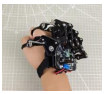
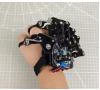
miniAuto 2

diff --git a/source/docs/2.Set_Arduino_Environment.md b/source/docs/2.Set_Arduino_Environment.md
@@ -38,11 +38,11 @@ If you're prompted for the installation of the chip driver during the installati
 
 ### 2.1.2 Software Instruction
 
-(1) The main interface of Arduino IDE consists of 5 workplaces：
+The main interface of Arduino IDE consists of 5 workplaces：
 
 <img class="common_img" src="../_static/media/chapter_2/section_1/media/image8.png"  />
 
-(2) **Menu bar**: it is responsible for Arduino IDE-related settings.
+(1) **Menu bar**: it is responsible for Arduino IDE-related settings.
 
 <table  class="docutils-nobg" style="text-align:center;" border="1">
 <colgroup>
@@ -78,7 +78,7 @@ If you're prompted for the installation of the chip driver during the installati
 </tbody>
 </table>
 
-(1) **Tool bar**: some tools related to the project, including program compilation, programs download, serial monitor, etc.
+(2) **Tool bar**: some tools related to the project, including program compilation, programs download, serial monitor, etc.
 
 | **Icon**                                                     | **Function**                                                 |
 | ------------------------------------------------------------ | ------------------------------------------------------------ |
@@ -117,7 +117,7 @@ If you're prompted for the installation of the chip driver during the installati
 
 ### 2.2.2 Arduino Download Program
 
-[_Demo](../_static/source_code/Demo.zip)
+[Demo](../_static/source_code/Demo.zip)
 
 (1) In this case, we will use an example that prints **"Hiwonder"** to illustrate. Open the example program Demo.ino .
 
@@ -127,7 +127,7 @@ If you're prompted for the installation of the chip driver during the installati
 
 <img class="common_img" src="../_static/media/chapter_2/section_2/media/image5.png"  />
 
-(3) In the **"Select board"** option, find the corresponding Arduino development board. (Take **"Arduino Uno"** and **"COM6"** as en example to demonstrate. The COM port is not unique. You can can check the COM port number in the computer's device manager. )
+(3) In the **"Select board"** option, find the corresponding Arduino development board. (Take **"Arduino Uno"** and **"COM5"** as en example to demonstrate. The COM port is not unique. You can can check the COM port number in the computer's device manager. )
 
 <img class="common_img" src="../_static/media/chapter_2/section_2/media/image6.png"  />
 
@@ -167,7 +167,7 @@ Take the library file for driving the RGB light (FastLED) as an example to illus
 
 This method is usually used for downloading library file or customizing the library file importing. Here will take the **"FastLED"** library file as an example to illustrate.
 
-(1) Select **"Sketch -\> Import library-\> Add .ZIP library"**.
+(1) Select **"Sketch -\> Include library -\> Add .ZIP library"**.
 
 <img class="common_img" src="../_static/media/chapter_2/section_2/media/image16.png"  />
 

diff --git a/source/docs/9.wireless_glove_control_lesson.md b/source/docs/9.wireless_glove_control_lesson.md
@@ -36,7 +36,7 @@ First, secure the finger straps around the last knuckles of each finger. Then, f
 
 For a visual reference, please refer to the video located in the same directory as this document. The final fit should look as shown below:
 
-<table class="" style="text-align: center;width: 600px;">
+<table class="" style="text-align: center;max-width: 600px;">
     <tbody>
     <tr>
         <td><img src="../_static/media/chapter_9/section_1/media/image4.jpeg" width="280px"></td>
@@ -145,8 +145,9 @@ You can press the **'K3'** key on the wireless glove to switch between control m
 
 After connecting the wireless glove to miniAuto, the potentiometers and IMU on the wireless glove can control the movement of miniAuto. Specific information can be found in the following table.
 
-<table  class="docutils-nobg" style="text-align:center" border="1">
-  <tr>
+<table  class="docutils-nobg" style="text-align:center;display:block;" border="1">
+<tbody style="display: block;overflow-x: scroll;">
+   <tr>
     <th>Initial Gesture</th>
     <th>Gesture Description (from your perspective)</th>
     <th>Gesture Image</th>
@@ -155,29 +156,30 @@ After connecting the wireless glove to miniAuto, the potentiometers and IMU on t
   <tr>
     <td rowspan="4">Make a fist.</td>
     <td>The palm faces down.</td>
-    <td><img src="../_static/media/chapter_9/section_2/media/image16.jpeg" /></td>
+    <td><img src="../_static/media/chapter_9/section_2/media/image16.jpeg"></td>
     <td>Move forward.</td>
   </tr>
   <tr>
     <td>The palm faces up.</td>
-    <td><img src="../_static/media/chapter_9/section_2/media/image17.jpeg" /></td>
+    <td><img src="../_static/media/chapter_9/section_2/media/image17.jpeg"></td>
     <td>Move backward.</td>
   </tr>
   <tr>
     <td>Bend your wrist clockwise, that is, the palm faces to the left.</td>
-    <td><img src="../_static/media/chapter_9/section_2/media/image18.png" /></td>
+    <td><img src="../_static/media/chapter_9/section_2/media/image18.png"></td>
     <td>Rotate clockwise in place.</td>
   </tr>
   <tr>
     <td>Bend your wrist counterclockwise, that is, the palm faces to the right.</td>
-    <td><img src="../_static/media/chapter_9/section_2/media/image19.jpeg" /></td>
+    <td><img src="../_static/media/chapter_9/section_2/media/image19.jpeg"></td>
     <td>Rotate counterclockwise in place.</td>
   </tr>
   <tr>
     <td colspan="2">Open the palm.</td>
-    <td><img src="../_static/media/chapter_9/section_2/media/image20.png" /></td>
+    <td><img src="../_static/media/chapter_9/section_2/media/image20.png"></td>
     <td>Stop.</td>
   </tr>
+</tbody>
 </table>
 
 ### 9.2.5 Brief Program Analysis

diff --git a/source/docs/6.secondary_development_lesson.md b/source/docs/6.secondary_development_lesson.md
@@ -56,10 +56,10 @@ The `Ultrasound::Color` function is a member of the `Ultrasound` library, primar
 </tr>
 <tr>
 <td >Usage Instructions</td>
-<td colspan="3" ><ol type="1">
-<li><p>Ultrasound ul; (create an ultrasound object)</p>
-<p>2) ul.Color(0,0,255,0,0,255);</p></li>
-</ol></td>
+<td colspan="3" >
+<p>(1) Ultrasound ul; (create an ultrasound object)</p>
+<p>(2) ul.Color(0,0,255,0,0,255);</p>
+</td>
 </tr>
 </tbody>
 </table>
@@ -160,7 +160,7 @@ The three colors of the onboard RGB LED—red, green, and blue—can be individu
 
 ### 6.2.4 Program Outcome
 
-After powering on the robot, the RGB LED on the Arduino expansion board will light up red. When the KEY1 button is pressed, the LED remains red; when the button is released, it returns to red.
+After powering on the robot, the RGB LED on the Arduino expansion board will light up red. When the KEY1 button is pressed, the LED remains white; when the button is released, it returns to red.
 
 <img class="common_img" src="../_static/media/chapter_6/section_2/media/1.gif" />
 
@@ -633,8 +633,6 @@ void setup() {
 In the `loop()` function:
 
 Continuously call the ultrasonic task function to perform real-time distance detection and update LED colors accordingly.
-
-{lineno-start=}
 
 ```
 void loop() {
@@ -1109,8 +1107,6 @@ For reference on RGB values and color combinations, you can visit the RGB color 
 **Q2: The distance readings from the ultrasonic sensor are sometimes accurate, but sometimes inconsistent. Why is that?** 
 
 **A:** For more reliable results, use a smooth and flat object as the target for distance measurement. Additionally, avoid keeping obstacles too close to the sensor for extended periods, as this may affect accuracy.
-
-pandoc -s 6.ObstacleAvoidance.docx --wrap=none --extract-media=chapter_6\section_6 -t gfm -o 6.ObstacleAvoidance.md
 
 ## 6.6 Obstacle Avoidance
 
@@ -2233,8 +2229,6 @@ const static uint8_t INTERSECTION_DETECTION = 5;
 ```
 
 (2) An RGB LED control object is created. The modestate variable is used to set the car to line-following mode, which is the default setting.
-
-{lineno-start=}
 
 ```
 static CRGB rgbs[1];

diff --git a/source/docs/5.motion_control_basic_lesson.md b/source/docs/5.motion_control_basic_lesson.md
@@ -28,7 +28,7 @@ void Motor_Init(void){
 }
 ```
 
-* **Motor Setting Function "Motor_Init()"**
+* **Motor Setting Function "Motors_Set()"**
 
 This function adjusts the speed and direction of each wheel based on the parameter values passed in. Within the for loop, the robot's turning is modified according to the calculated results. The **map** function is used to scale the calculated value from the range **0–100** to **50–255**. The **digitalWrite** and **analogWrite** functions are then used to set the motor's direction and speed, respectively.
 
@@ -959,7 +959,7 @@ void setup() {
   Motor_Init();                     ///< 电机初始化(Initialize the motors)
 ```
 
-(2) Call the `Velocity_Controller()` function to make the robot drift at a speed of 100 for 1 second.
+(2) Call the `Velocity_Controller()` function to make the robot drift at a speed of 60 for 1 second.
 
 {lineno-start=33}
 

diff --git a/source/docs/1.getting_ready.md b/source/docs/1.getting_ready.md
@@ -167,7 +167,7 @@ Do **not** reverse the positive and negative terminals of the batteries. If a ch
 
 <img class="common_img" src="../_static/media/chapter_1/section_4/media/image2.png"   />
 
-(2) Turn ON the battery holder case after placing the batteries.
+(2) Turn **"ON"** the battery holder case after placing the batteries.
 
 <img class="common_img" src="../_static/media/chapter_1/section_4/media/image3.png"  />
 

diff --git a/source/docs/8.robotic_gripper_control_lesson.md b/source/docs/8.robotic_gripper_control_lesson.md
@@ -1,4 +1,4 @@
-# 8.Robotic Gripper Control Lesson
+# 8. Robotic Gripper Control Lesson
 
 <p id="anchor_8_1"></p>
 
@@ -227,8 +227,6 @@ void ultrasonic_distance(){
 ```
 
 (6) When the distance exceeds 500mm, the green LED on the ultrasonic sensor will remain steadily on.
-
-{lineno-start=}
 
 ```
   else if (distance > 500){
